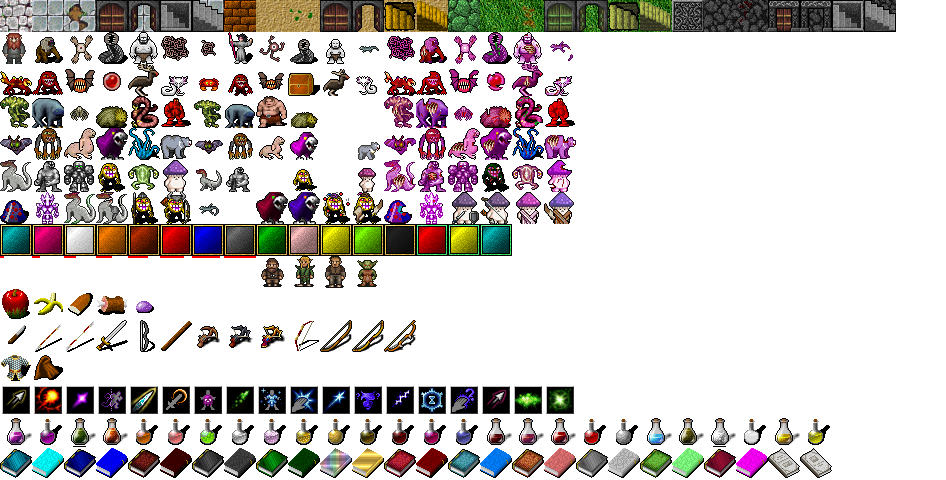
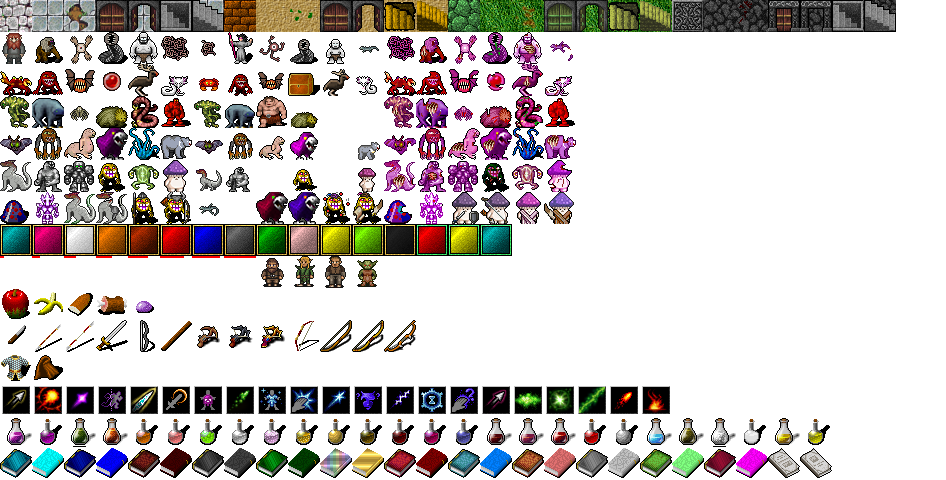
add book of fire

Changed region(s): [[0.6131, 0.7812, 0.7357, 0.875]]

diff --git a/assets/skill.js b/assets/skill.js
@@ -99,6 +99,12 @@ Game.useSkill = function(actor, skill, skillx, skilly) {
             Game.addAffect(Game.entity[i].x, Game.entity[i].y, Game.entity[i].Depth, _confuse, actor);
           }
         }
+        if (typeof skill.formulas.burning !== 'undefined') {
+          let _burning = Game.SkillRepository.create("Burning(" + skill.level + ")");
+          if (Math.random() * 100 < skill.formulas.burning) {
+            Game.addAffect(Game.entity[i].x, Game.entity[i].y, Game.entity[i].Depth, _burning, actor);
+          }
+        }
         Game.entity[i].doDie();
       }
     }
@@ -233,6 +239,7 @@ Game.addAffect = function(x, y, level, affect, actor) {
         if (key == "agi") Game.entity[i].Agi += affect.formulas[key];
         if (key == "armor") Game.entity[i].Armor += affect.formulas[key];
         if (key == "poisonmin") Game.entity[i].Color = "#0f0" + (2 + affect.level);
+        if (key == "burningmin") Game.entity[i].Color = "#f00" + (2 + affect.level);
         if (key == "stun") {
           Game.entity[i].stun = true;
           Game.entity[i].Color = "#b4f" + (2 + affect.level);
@@ -266,6 +273,7 @@ Game.removeAffect = function(x, y, level, num) {
         if (key == "agi") Game.entity[i].Agi -= value;
         if (key == "armor") Game.entity[i].Armor -= value;
         if (key == "poisonmin") Game.entity[i].Color = "#0000";
+        if (key == "burningmin") Game.entity[i].Color = "#0000";
         if (key == "stun") {
           Game.entity[i].stun = false;
           Game.entity[i].Color = "#0000";
@@ -296,14 +304,22 @@ AffectsCheck.prototype.act = function() {
     if (Game.entity[i].affects.length > 0) {
       for (let j = 0; j < Game.entity[i].affects.length; j++) {
         if ("poisonmin" in Game.entity[i].affects[j].formulas) {
-          let dmg = Math.floor(Math.random() * (Game.entity[i].affects[j].formulas.poisonmax - Game.entity[i].affects[j].formulas.poisonmin) + Game.entity[i].affects[j].formulas.poisonmin + Game.entity[i].Armor / 2);
+          let dmg = Math.floor(Math.random() * (Game.entity[i].affects[j].formulas.poisonmax - Game.entity[i].affects[j].formulas.poisonmin) + Game.entity[i].affects[j].formulas.poisonmin - Game.entity[i].Armor / 2);
           let result = Game.entity[i].doGetDamage(dmg);
           if (Game.map[Game.entity[i].Depth].Tiles[Game.entity[i].x][Game.entity[i].y].Visible) {
             Game.messagebox.sendMessage("The " + Game.entity[i].name + " get " + result + " damage from poison.")
           }
         }
+        if ("burningmin" in Game.entity[i].affects[j].formulas) {
+          let dmg = Math.floor(Math.random() * (Game.entity[i].affects[j].formulas.burningmax - Game.entity[i].affects[j].formulas.burningmin) + Game.entity[i].affects[j].formulas.burningmin - Game.entity[i].Armor);
+          let result = Game.entity[i].doGetDamage(dmg);
+          if (Game.map[Game.entity[i].Depth].Tiles[Game.entity[i].x][Game.entity[i].y].Visible) {
+            Game.messagebox.sendMessage("The " + Game.entity[i].name + " get " + result + " damage from burning.")
+          }
+        }
         Game.entity[i].affects[j].last -= 1;
-        if (Game.entity[i].affects[j].last < 0) Game.removeAffect(Game.entity[i].x, Game.entity[i].y, Game.entity[i].Depth, j);
+        if (Game.entity[i].affects[j].last < 1) Game.removeAffect(Game.entity[i].x, Game.entity[i].y, Game.entity[i].Depth, j);
+        Game.entity[i].doDie();
       }
     }
   }

diff --git a/assets/skills.js b/assets/skills.js
@@ -250,9 +250,79 @@ Game.SkillRepository.define('Throw ice('+i+')', {
   formulas: {
     mindmg: 0,
     maxdmg: 0,
-    mindmglvl: 2,
-    maxdmglvl: (8+i*2),
+    mindmglvl: 2*i,
+    maxdmglvl: i*(8+i*2),
     frozen: 15
+  }
+});
+
+Game.SkillRepository.define('Throw flame('+i+')', {
+  level: i,
+  rank: 2,
+  name: "Throw flame",
+  Symbol: "throwflame",
+  target: "range",
+  type: "spell",
+  subtype: "damage",
+  options: {
+    cost: 8 + i*2,
+    description: "You throw flame with "+i*4+" - "+i*(10+i*2)+" dmg.",
+    stat: "int",
+    range: 4+i,
+    radius: 0
+  },
+  formulas: {
+    mindmg: 0,
+    maxdmg: 0,
+    mindmglvl: 4*i,
+    maxdmglvl: i*(10+i*2),
+    burning: 35
+  }
+});
+
+Game.SkillRepository.define('Wall of fire('+i+')', {
+  level: i,
+  rank: 4,
+  name: "Wall of fire",
+  Symbol: "walloffire",
+  target: "range",
+  type: "spell",
+  subtype: "damage",
+  options: {
+    cost: 12 + i*2,
+    description: "You create wall of fire "+i*4+" - "+i*(10+i*2)+" dmg.",
+    stat: "int",
+    range: 4+i,
+    radius: 2
+  },
+  formulas: {
+    mindmg: 0,
+    maxdmg: 0,
+    mindmglvl: 5*i,
+    maxdmglvl: i*(13+i*2),
+    burning: 50
+  }
+});
+
+Game.SkillRepository.define('Burning('+i+')', {
+  level: i,
+  rank: 1,
+  name: "Burning",
+  Symbol: "walloffire",
+  target: "range",
+  type: "spell",
+  subtype: "hex",
+  options: {
+    cost: 10 + i*2,
+    description: "Target burning, "+2*i+"-"+6*i+" dmg for "+(2+i)+" turns.",
+    stat: "int",
+    range: 3+i,
+    radius: 1
+  },
+  formulas: {
+    burningmin: i*2,
+    burningmax: i*6,
+    duration: 2+i
   }
 });
 
@@ -380,7 +450,7 @@ Game.SkillRepository.define('Poison cloud('+i+')', {
   formulas: {
     poisonmin: i*2,
     poisonmax: i*10,
-    duration: 4+i
+    duration: 4+i*1
   }
 });
 
@@ -403,7 +473,31 @@ Game.SkillRepository.define('Venomous circle('+i+')', {
     poisonmin: i*5,
     poisonmax: i*15,
     duration: 2+i*2,
-    selfprotect: true
+    selfprotect: true,
+    confuse: 20
+  }
+});
+
+Game.SkillRepository.define('Poison bolt('+i+')', {
+  level: i,
+  rank: 5,
+  name: "Poison bolt",
+  Symbol: "poisonbolt",
+  target: "range",
+  type: "spell",
+  subtype: "hex",
+  options: {
+    cost: 12 + i*3,
+    description: "Magical bolt of poison. Deals "+12*i+"-"+20*i+" dmg for "+(2+i)+" turns.",
+    stat: "int",
+    range: 3+i,
+    radius: 0
+  },
+  formulas: {
+    poisonmin: i*10,
+    poisonmax: i*24,
+    duration: 2+i,
+    confuse: 40
   }
 });
 

diff --git a/assets/items.js b/assets/items.js
@@ -429,13 +429,27 @@ Game.ItemRepository.define('bookofsmallevil', {
 Game.ItemRepository.define('toxicbook', {
   name: "toxic book",
   Symbol: "book"+(Math.floor(Math.random()*25)+1),
-  level: 1,
-  price: 10,
+  level: 5,
+  price: 30,
   type: "book",
   skills: {
     "Poison dart":2,
     "Poison cloud":1,
     "Venomous circle":1,
+    "Poison bolt":1,
+  }
+});
+
+Game.ItemRepository.define('bookoffire', {
+  name: "book of fire",
+  Symbol: "book"+(Math.floor(Math.random()*25)+1),
+  level: 5,
+  price: 35,
+  type: "book",
+  skills: {
+    "Fireball":2,
+    "Throw flame":1,
+    "Wall of fire":1,
   }
 });
 

diff --git a/assets/index.js b/assets/index.js
@@ -76,8 +76,8 @@ var Game = {
       newitem = Game.ItemRepository.createRandom(1,1);
       Game.inventory.push(newitem);
     }
-    newitem = Game.ItemRepository.create("toxicbook");
-    Game.inventory.push(newitem);
+//    newitem = Game.ItemRepository.create("bookoffire");
+//    Game.inventory.push(newitem);
     this.drawAll();
     this.engine = new ROT.Engine(scheduler);
     this.engine.start();

diff --git a/assets/tilemap.js b/assets/tilemap.js
@@ -157,6 +157,9 @@ var gameTilemap = {
   "stunningshot": [480,384],
   "poisoncloud": [512,384],
   "venomouscircle": [544,384],
+  "poisonbolt": [576,384],
+  "throwflame": [608,384],
+  "walloffire": [640,384],
 //armor
   "simplecloak": [32,352],
   "chainmail": [0,352]
